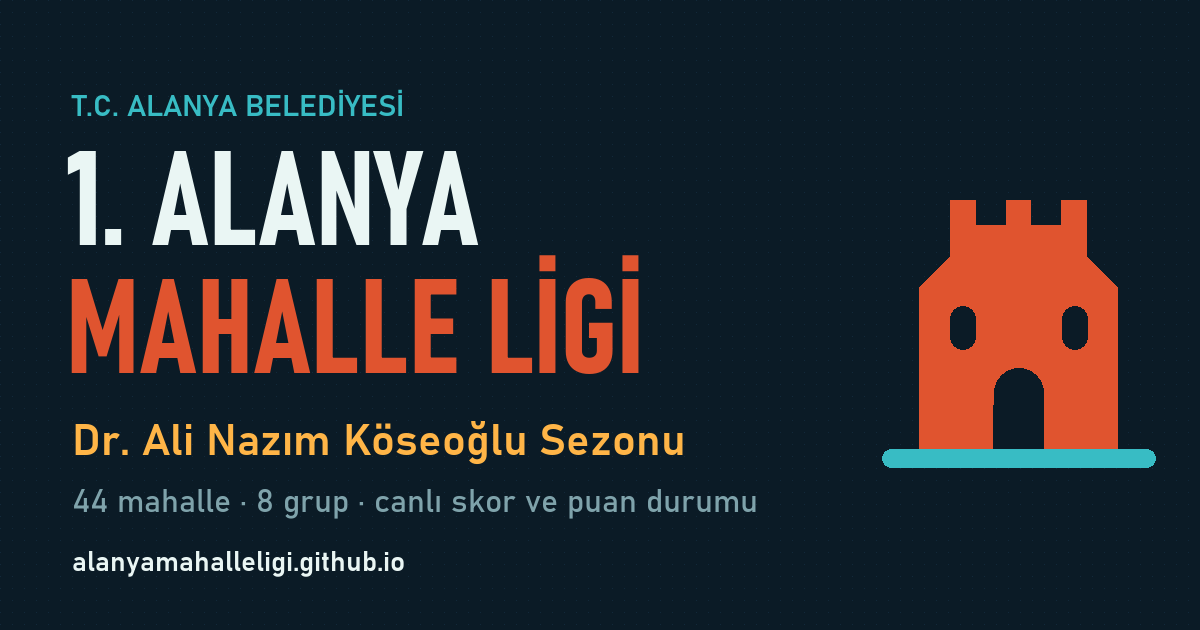
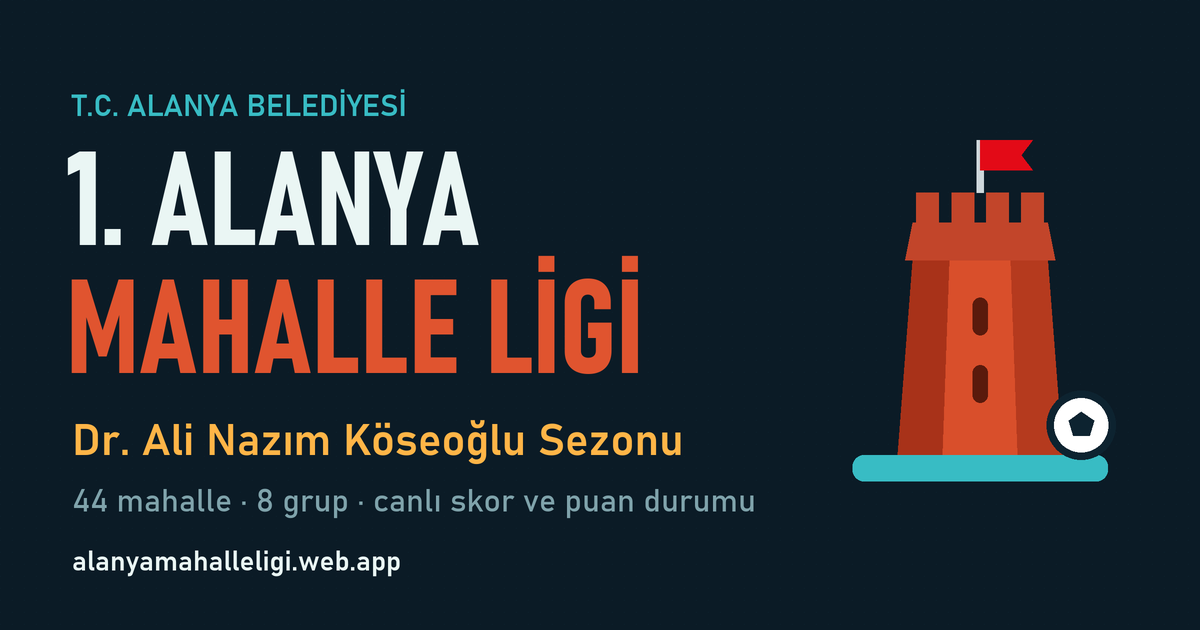
Yeni amblem: Kızılkule, bayrak, dalga ve top
Eski amblemdeki pencere ve kapı yüz gibi görünüyordu. Üst bar, site simgesi, uygulama simgeleri ve paylaşım görseli güncellendi.

diff --git a/public/index.html b/public/index.html
@@ -889,12 +889,7 @@ footer b{color:var(--on-night)}
 <header class="top">
   <div class="wrap">
     <a class="brand" href="/">
-      <svg width="34" height="38" viewBox="0 0 34 38" aria-hidden="true">
-        <path d="M5 36V14l3-3V6h3v3h3V6h6v3h3V6h3v5l3 3v22z" fill="var(--accent)"/>
-        <path d="M14 36v-7a3 3 0 0 1 6 0v7z" fill="var(--bg)"/>
-        <rect x="9" y="17" width="3" height="5" rx="1.5" fill="var(--bg)"/><rect x="22" y="17" width="3" height="5" rx="1.5" fill="var(--bg)"/>
-        <path d="M0 36h34v2H0z" fill="var(--sea)"/>
-      </svg>
+      <svg width="34" height="41" viewBox="0 0 40 48" aria-hidden="true"><polygon points="9,44 11,18 16,16 15,44" fill="#a83219"/><polygon points="15,44 16,16 24,16 25,44" fill="#d94f2b"/><polygon points="25,44 24,16 29,18 31,44" fill="#b53a1e"/><polygon points="10,18 11,13 29,13 30,18" fill="#c2452a"/><rect x="11.5" y="9" width="3" height="4" fill="#c2452a"/><rect x="16.2" y="9" width="3" height="4" fill="#c2452a"/><rect x="20.8" y="9" width="3" height="4" fill="#c2452a"/><rect x="25.5" y="9" width="3" height="4" fill="#c2452a"/><rect x="19" y="23" width="2" height="5" rx="1" fill="#5a1a0c"/><rect x="19" y="32" width="2" height="5" rx="1" fill="#5a1a0c"/><path d="M20 9V2" stroke="var(--on-night-dim)" stroke-width="1"/><polygon points="20,2 27,2 25.5,4 27,6 20,6" fill="#e30a17"/><path d="M3 44.5q4-2.4 8 0t8 0 8 0 8 0v3H3z" fill="var(--sea)"/><circle cx="33.5" cy="40" r="4.6" fill="#fff" stroke="#0d2330" stroke-width="1"/><polygon points="33.5,38.2 35.2,39.4 34.6,41.4 32.4,41.4 31.8,39.4" fill="#0d2330"/></svg>
       <span><b>Mahalle Ligi</b><small>Alanya Belediyesi · 2026</small></span>
     </a>
     <nav class="links" aria-label="Sayfalar">

diff --git a/src/body.html b/src/body.html
@@ -3,12 +3,7 @@
 <header class="top">
   <div class="wrap">
     <a class="brand" href="/">
-      <svg width="34" height="38" viewBox="0 0 34 38" aria-hidden="true">
-        <path d="M5 36V14l3-3V6h3v3h3V6h6v3h3V6h3v5l3 3v22z" fill="var(--accent)"/>
-        <path d="M14 36v-7a3 3 0 0 1 6 0v7z" fill="var(--bg)"/>
-        <rect x="9" y="17" width="3" height="5" rx="1.5" fill="var(--bg)"/><rect x="22" y="17" width="3" height="5" rx="1.5" fill="var(--bg)"/>
-        <path d="M0 36h34v2H0z" fill="var(--sea)"/>
-      </svg>
+      <svg width="34" height="41" viewBox="0 0 40 48" aria-hidden="true"><polygon points="9,44 11,18 16,16 15,44" fill="#a83219"/><polygon points="15,44 16,16 24,16 25,44" fill="#d94f2b"/><polygon points="25,44 24,16 29,18 31,44" fill="#b53a1e"/><polygon points="10,18 11,13 29,13 30,18" fill="#c2452a"/><rect x="11.5" y="9" width="3" height="4" fill="#c2452a"/><rect x="16.2" y="9" width="3" height="4" fill="#c2452a"/><rect x="20.8" y="9" width="3" height="4" fill="#c2452a"/><rect x="25.5" y="9" width="3" height="4" fill="#c2452a"/><rect x="19" y="23" width="2" height="5" rx="1" fill="#5a1a0c"/><rect x="19" y="32" width="2" height="5" rx="1" fill="#5a1a0c"/><path d="M20 9V2" stroke="var(--on-night-dim)" stroke-width="1"/><polygon points="20,2 27,2 25.5,4 27,6 20,6" fill="#e30a17"/><path d="M3 44.5q4-2.4 8 0t8 0 8 0 8 0v3H3z" fill="var(--sea)"/><circle cx="33.5" cy="40" r="4.6" fill="#fff" stroke="#0d2330" stroke-width="1"/><polygon points="33.5,38.2 35.2,39.4 34.6,41.4 32.4,41.4 31.8,39.4" fill="#0d2330"/></svg>
       <span><b>Mahalle Ligi</b><small>Alanya Belediyesi · 2026</small></span>
     </a>
     <nav class="links" aria-label="Sayfalar">

diff --git a/public/sw.js b/public/sw.js
@@ -1,5 +1,5 @@
 // Çevrimdışı destek: sayfalar önce ağdan alınır, bağlantı yoksa son kopya gösterilir.
-const CACHE = 'aml-v5';
+const CACHE = 'aml-v6';
 const SHELL = ['/', '/index.html', '/firebase-config.js', '/icon.svg', '/icon-192.png', '/manifest.webmanifest'];
 self.addEventListener('install', e => {
   e.waitUntil(caches.open(CACHE).then(c => c.addAll(SHELL)).then(() => self.skipWaiting()));
